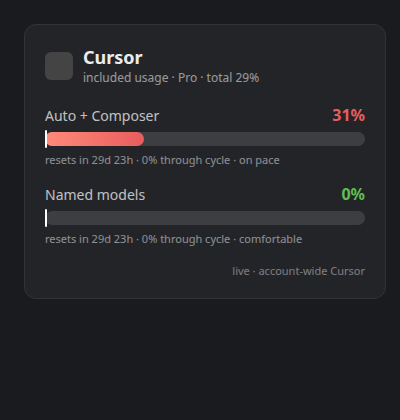
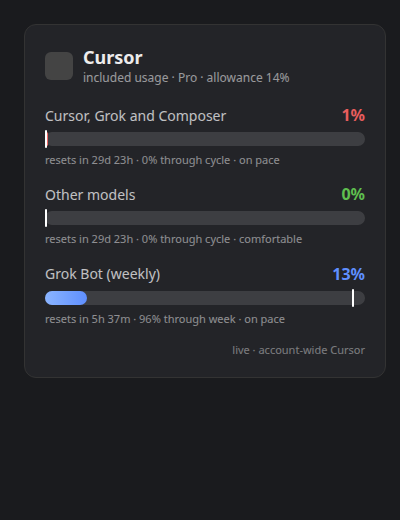
Add Grok Bot bar, fix usage percents, and match claude-meter panel layout.
Parse monthly pools from display messages instead of internal percent fields,
add GetSandUsageStatus for Grok Bot weekly usage, and make panel bars
configurable with proper three-bar spacing. Refresh README and screenshots.

Changed region(s): [[0.09, 0.0929, 0.93, 0.681], [0.09, 0.0929, 0.18, 0.1238]]

diff --git a/plasmoid/org.mat.cursormeter/contents/ui/main.qml b/plasmoid/org.mat.cursormeter/contents/ui/main.qml
@@ -1,6 +1,6 @@
 /*
  * Cursor Meter — KDE Plasma 6 applet
- * Two capsule bars: Auto + Composer and named-model API usage in the current billing cycle.
+ * Three capsule bars: monthly Models/Other pools plus Grok Bot weekly usage.
  */
 
 import QtQuick
@@ -16,6 +16,11 @@ PlasmoidItem {
 
     property var  data5:    ({ pct: 0, reset_in: null, fresh: false })
     property var  data7:    ({ pct: 0, reset_in: null, fresh: false })
+    property var  dataGrok: null
+    readonly property bool haveGrok: haveData && dataGrok !== null
+    // 0 = Models + Other, 1 = Models + Other + Grok, 2 = Models + Grok
+    readonly property bool panelShowOther: Plasmoid.configuration.panelBars !== 2
+    readonly property bool panelShowGrok: haveGrok && Plasmoid.configuration.panelBars !== 0
     property bool haveData: false
     property int  ageSec:   0
     property string source:  ""
@@ -132,10 +137,12 @@ PlasmoidItem {
     }
 
     function tipText() {
-        return "total  " + totalPct + "%\n"
-            + lineFor("Auto", data5, cycleSec) + "\n"
-            + lineFor("API", data7, cycleSec) + "\n"
-            + sourceText()
+        var s = "included  " + totalPct + "% of monthly allowance\n"
+            + lineFor("Models", data5, cycleSec) + "\n"
+            + lineFor("Other", data7, cycleSec)
+        if (haveGrok)
+            s += "\n" + lineFor("Grok", dataGrok, dataGrok.week_sec || 604800)
+        return s + "\n" + sourceText()
     }
 
     Plasma5Support.DataSource {
@@ -152,6 +159,7 @@ PlasmoidItem {
                 if (j && j.ok) {
                     root.data5     = j.five
                     root.data7     = j.seven
+                    root.dataGrok  = j.grok || null
                     root.ageSec    = j.age || 0
                     root.source    = j.source || ""
                     root.plan      = j.plan || ""
@@ -188,9 +196,12 @@ PlasmoidItem {
         property bool   stale: false
         property bool   justReset: false
         property bool   showValue: true
+        property real   labelWidth: -1
+        readonly property real labelImplicitWidth: labelItem.visible ? labelItem.implicitWidth : 0
 
         implicitHeight: Kirigami.Units.gridUnit
         implicitWidth:  Kirigami.Units.gridUnit * 6
+        Layout.minimumHeight: 4
 
         readonly property real  v: Math.max(0, Math.min(100, value))
         readonly property color fillColor: mb.stale
@@ -202,12 +213,16 @@ PlasmoidItem {
             spacing: Kirigami.Units.smallSpacing
 
             PlasmaComponents.Label {
+                id: labelItem
                 text: mb.label
                 visible: mb.label.length > 0
                 font.pixelSize: Math.max(8, mb.height * 0.62)
                 font.bold: true
                 opacity: 0.6
-                Layout.preferredWidth: mb.label.length > 0 ? Kirigami.Units.gridUnit * 1.2 : 0
+                Layout.minimumHeight: 0
+                Layout.fillHeight: true
+                Layout.preferredWidth: mb.label.length === 0 ? 0
+                    : mb.labelWidth >= 0 ? mb.labelWidth : Kirigami.Units.gridUnit * 0.95
                 horizontalAlignment: Text.AlignLeft
                 verticalAlignment: Text.AlignVCenter
             }
@@ -216,6 +231,7 @@ PlasmoidItem {
                 id: track
                 Layout.fillWidth: true
                 Layout.fillHeight: true
+                Layout.minimumHeight: 0
                 Layout.maximumHeight: Kirigami.Units.gridUnit * 0.9
                 Layout.alignment: Qt.AlignVCenter
                 radius: height / 2
@@ -269,6 +285,8 @@ PlasmoidItem {
                 font.pixelSize: Math.max(8, mb.height * 0.58)
                 font.bold: true
                 color: mb.active ? mb.fillColor : Qt.rgba(0.6, 0.6, 0.6, 1)
+                Layout.minimumHeight: 0
+                Layout.fillHeight: true
                 Layout.preferredWidth: mb.showValue ? Kirigami.Units.gridUnit * 1.7 : 0
                 horizontalAlignment: Text.AlignRight
                 verticalAlignment: Text.AlignVCenter
@@ -289,7 +307,7 @@ PlasmoidItem {
             id: contentRow
             anchors.centerIn: parent
             height: Math.min(parent.height - Kirigami.Units.smallSpacing,
-                             Kirigami.Units.gridUnit * 2.3)
+                             Kirigami.Units.gridUnit * (barsCol.barCount === 3 ? 3.3 : 2.3))
             spacing: Kirigami.Units.smallSpacing
 
             Kirigami.Icon {
@@ -309,14 +327,19 @@ PlasmoidItem {
                 id: barsCol
                 Layout.preferredWidth: Kirigami.Units.gridUnit * 6
                 Layout.fillHeight: true
-                spacing: Kirigami.Units.smallSpacing
+                spacing: barCount === 3 ? 2 : Kirigami.Units.smallSpacing
                 opacity: root.stale ? 0.5 : 1.0
                 Behavior on opacity { NumberAnimation { duration: 400 } }
+                readonly property int barCount: 1 + (root.panelShowOther ? 1 : 0) + (root.panelShowGrok ? 1 : 0)
+                readonly property real labelW: Math.max(barModels.labelImplicitWidth, barOther.labelImplicitWidth,
+                                                        barGrok.labelImplicitWidth, Kirigami.Units.gridUnit * 0.95)
 
                 MeterBar {
+                    id: barModels
                     Layout.fillWidth: true
                     Layout.fillHeight: true
-                    label: Plasmoid.configuration.showWindowLabels ? "Auto" : ""
+                    labelWidth: barsCol.labelW
+                    label: Plasmoid.configuration.showWindowLabels ? "Models" : ""
                     active: root.haveData
                     stale: root.stale
                     value: root.data5.pct
@@ -325,15 +348,32 @@ PlasmoidItem {
                                && root.data5.reset_in !== null && root.data5.reset_in <= 0
                 }
                 MeterBar {
+                    id: barOther
+                    visible: root.panelShowOther
                     Layout.fillWidth: true
                     Layout.fillHeight: true
-                    label: Plasmoid.configuration.showWindowLabels ? "API" : ""
+                    labelWidth: barsCol.labelW
+                    label: Plasmoid.configuration.showWindowLabels ? "Other" : ""
                     active: root.haveData
                     stale: root.stale
                     value: root.data7.pct
                     timePct: root.timePctOf(root.data7.reset_in, root.cycleSec)
                     justReset: root.haveData && !root.data7.fresh
                                && root.data7.reset_in !== null && root.data7.reset_in <= 0
+                }
+                MeterBar {
+                    id: barGrok
+                    visible: root.panelShowGrok
+                    Layout.fillWidth: true
+                    Layout.fillHeight: true
+                    labelWidth: barsCol.labelW
+                    label: Plasmoid.configuration.showWindowLabels ? "Grok" : ""
+                    active: root.panelShowGrok
+                    stale: root.stale
+                    value: root.dataGrok.pct
+                    timePct: root.timePctOf(root.dataGrok.reset_in, root.dataGrok.week_sec || 604800)
+                    justReset: root.panelShowGrok && !root.dataGrok.fresh
+                               && root.dataGrok.reset_in !== null && root.dataGrok.reset_in <= 0
                 }
             }
 
@@ -410,9 +450,9 @@ PlasmoidItem {
 
     fullRepresentation: Item {
         Layout.minimumWidth:  Kirigami.Units.gridUnit * 18
-        Layout.minimumHeight: Kirigami.Units.gridUnit * 12
+        Layout.minimumHeight: root.haveGrok ? Kirigami.Units.gridUnit * 15 : Kirigami.Units.gridUnit * 12
         Layout.preferredWidth:  Kirigami.Units.gridUnit * 20
-        Layout.preferredHeight: Kirigami.Units.gridUnit * 13
+        Layout.preferredHeight: root.haveGrok ? Kirigami.Units.gridUnit * 16 : Kirigami.Units.gridUnit * 13
 
         ColumnLayout {
             anchors.fill: parent
@@ -437,7 +477,7 @@ PlasmoidItem {
                     }
                     PlasmaComponents.Label {
                         text: root.plan !== ""
-                            ? "included usage · " + root.plan + " · total " + root.totalPct + "%"
+                            ? "included usage · " + root.plan + " · allowance " + root.totalPct + "%"
                             : "included usage"
                         opacity: 0.6
                         font.pixelSize: Kirigami.Units.gridUnit * 0.72
@@ -447,17 +487,25 @@ PlasmoidItem {
             }
 
             WindowBlock {
-                title: "Auto + Composer"
+                title: "Cursor, Grok and Composer"
                 d: root.data5
                 active: root.haveData
                 windowSec: root.cycleSec
             }
 
             WindowBlock {
-                title: "Named models"
+                title: "Other models"
                 d: root.data7
                 active: root.haveData
                 windowSec: root.cycleSec
+            }
+
+            WindowBlock {
+                visible: root.haveGrok
+                title: "Grok Bot (weekly)"
+                d: root.dataGrok
+                active: root.haveGrok
+                windowSec: root.dataGrok.week_sec || 604800
             }
 
             Item { Layout.fillHeight: true }

diff --git a/plasmoid/org.mat.cursormeter/contents/ui/configAppearance.qml b/plasmoid/org.mat.cursormeter/contents/ui/configAppearance.qml
@@ -1,5 +1,6 @@
 import QtQuick
 import QtQuick.Controls as QQC2
+import QtQuick.Layouts
 import org.kde.kcmutils as KCM
 import org.kde.kirigami as Kirigami
 
@@ -7,6 +8,7 @@ KCM.SimpleKCM {
     property alias cfg_showIcon: showIcon.checked
     property alias cfg_monochromeIcon: monochromeIcon.checked
     property alias cfg_showWindowLabels: showWindowLabels.checked
+    property alias cfg_panelBars: panelBars.currentIndex
 
     Kirigami.FormLayout {
         anchors.left: parent.left
@@ -26,7 +28,26 @@ KCM.SimpleKCM {
 
         QQC2.CheckBox {
             id: showWindowLabels
-            text: i18n("Show the \"Auto\" and \"API\" labels")
+            text: i18n("Show the window labels (\"Models\", \"Other\", \"Grok\")")
+        }
+
+        Item { Kirigami.FormData.isSection: true }
+
+        QQC2.ComboBox {
+            id: panelBars
+            Kirigami.FormData.label: i18n("Bars in the panel:")
+            model: [
+                i18n("Models and Other"),
+                i18n("Models, Other and Grok Bot"),
+                i18n("Models and Grok Bot")
+            ]
+        }
+
+        QQC2.Label {
+            Layout.fillWidth: true
+            opacity: 0.7
+            wrapMode: Text.WordWrap
+            text: i18n("The Grok Bot bar only appears when your plan includes it. The hover and the popup always show every pool.")
         }
     }
 }

diff --git a/README.md b/README.md
@@ -1,14 +1,30 @@
 # Cursor Meter
 
-A KDE Plasma panel widget that shows your **live Cursor plan usage** as two compact bars, colored by
+A KDE Plasma panel widget that shows your **live Cursor plan usage** as compact bars, colored by
 how you're tracking against the clock.
 
 <img src="docs/panel.png" alt="Cursor Meter in the panel" width="360">
 
-Cursor meters **included usage** on a monthly billing cycle. The bars are:
+Cursor meters **included usage** on a monthly billing cycle. The bars match the
+[Spending page](https://cursor.com/dashboard/spending):
 
-- **Auto** — Auto + Composer models (`autoPercentUsed`)
-- **API** — named models you pick explicitly (`apiPercentUsed`)
+- **Models** — "Includes Cursor, Grok and Composer" (`autoModelSelectedDisplayMessage`, monthly)
+- **Other** — "Other Models" (`namedModelSelectedDisplayMessage`, monthly)
+- **Grok** — Grok Bot weekly pool (`GetSandUsageStatus`, resets every 7 days)
+
+Hovering also shows **included allowance** — the dollar-weighted total from `displayMessage`
+(`includedSpend ÷ limit`). That number is usually higher than the Models bar alone because it counts
+usage across every pool in your monthly allowance, not just the Cursor/Grok/Composer slice.
+
+### The Grok Bot bar
+
+Plans with a Grok Bot weekly pool get a third window. It is always in the hover text and the popup.
+In the panel it is off by default so the widget stays two bars tall; turn it on in **Configure →
+Appearance → Bars in the panel** to get three bars, or swap the Other bar for Grok:
+
+<img src="docs/panel-grok.png" alt="Cursor Meter with the Grok Bot bar" width="360">
+
+It reads `GetSandUsageStatus`, so it follows whatever weekly pool Cursor exposes next.
 
 It reads your usage from the same dashboard endpoint the Cursor app uses, with the token Cursor
 already put on your disk after you sign in. No browser, no cookies, no keyring. Always fresh, counts
@@ -34,7 +50,7 @@ Each bar packs four signals:
 | Element | Meaning |
 |---|---|
 | **Fill length** | How much of that bucket you've used (`14%`). |
-| **Vertical tick** | How far *through the billing cycle by time* you are. Fill **left** of the tick = under pace; fill **right** = burning fast. Both bars share the same monthly clock. |
+| **Vertical tick** | How far *through that window by time* you are. Fill **left** of the tick = under pace; fill **right** = burning fast. Models and Other share the monthly clock; Grok has its own weekly clock. |
 | **Color** | Pace, not raw usage: **green** = comfortably under, **yellow** = right on the clock, **red** = ahead of the clock. |
 | **↺ marker** | The cycle just reset — the live number may still be catching up. |
 
@@ -82,8 +98,9 @@ No configuration needed.
 1. Every ~90 seconds the widget runs its bundled reader (`contents/scripts/cursor-meter.sh`).
 2. The reader takes the access token from `~/.config/cursor/auth.json` (written by `cursor-agent
    login`) or, if that's missing, `cursorAuth/accessToken` in the IDE's `state.vscdb`.
-3. It calls `https://api2.cursor.sh/aiserver.v1.DashboardService/GetCurrentPeriodUsage` (the same
-   dashboard the app reads) and turns the Auto and API buckets into the bars.
+3. It calls `GetCurrentPeriodUsage` for the two monthly pools and `GetSandUsageStatus` for Grok Bot
+   weekly usage, parsing the `*DisplayMessage` strings (and `usagePercent` for Grok). The raw
+   `*PercentUsed` floats in the monthly response are internal metrics and do **not** match the web UI.
 4. If the token has expired or the network is down, it falls back to the last successful live read
    cached at `~/.config/cursor-meter/last.json`.
 
@@ -113,7 +130,7 @@ refresh the token itself — writing to `auth.json` would race with the CLI, whi
 `extras/statusline.sh` prints a compact summary for shell hooks:
 
 ```
-Cursor total 8% · Auto 9% · API 1%
+Cursor allowance 14% · Models 1% · Other 0% · Grok 13%
 ```
 
 ## Options
@@ -124,7 +141,8 @@ Right-click the widget → **Configure Cursor Meter…** → **Appearance**:
 |---|---|---|
 | **Show the Cursor icon** | on | Puts the Cursor mark in front of the bars. |
 | **Tint it to match the panel** | off | Renders the mark in your panel's text colour instead of the brand colour. |
-| **Show the "Auto" and "API" labels** | on | Turn off to reclaim panel width once the icon makes it obvious which widget is which. |
+| **Show the window labels** | on | Turn off to reclaim panel width once the icon makes it obvious which widget is which. |
+| **Bars in the panel** | Models and Other | Pick two or three bars: monthly pools only, all three pools, or Models + Grok Bot. The popup always shows every pool. |
 
 ## Uninstall
 
